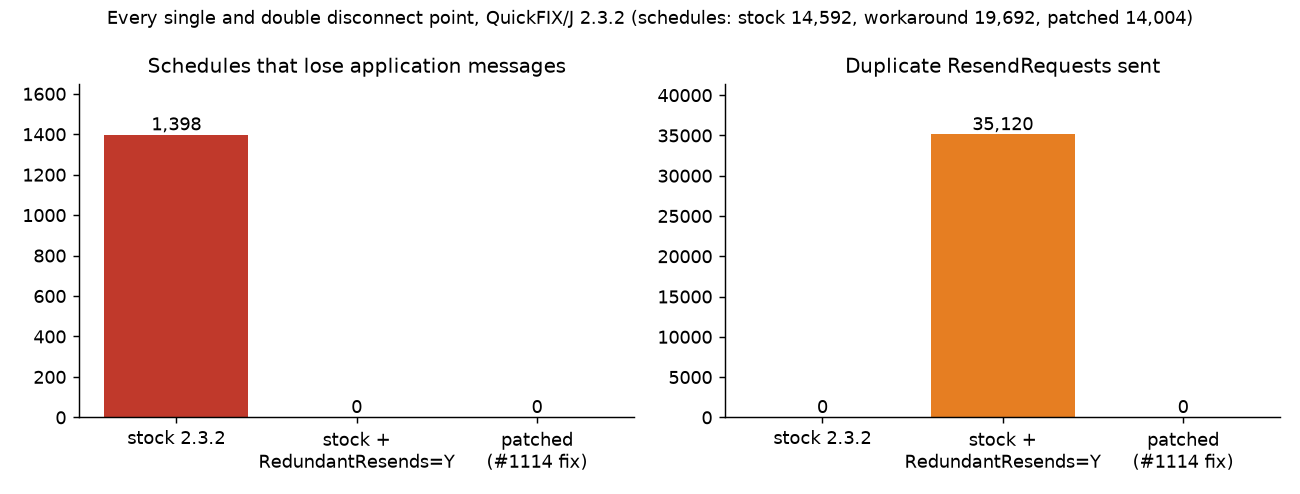
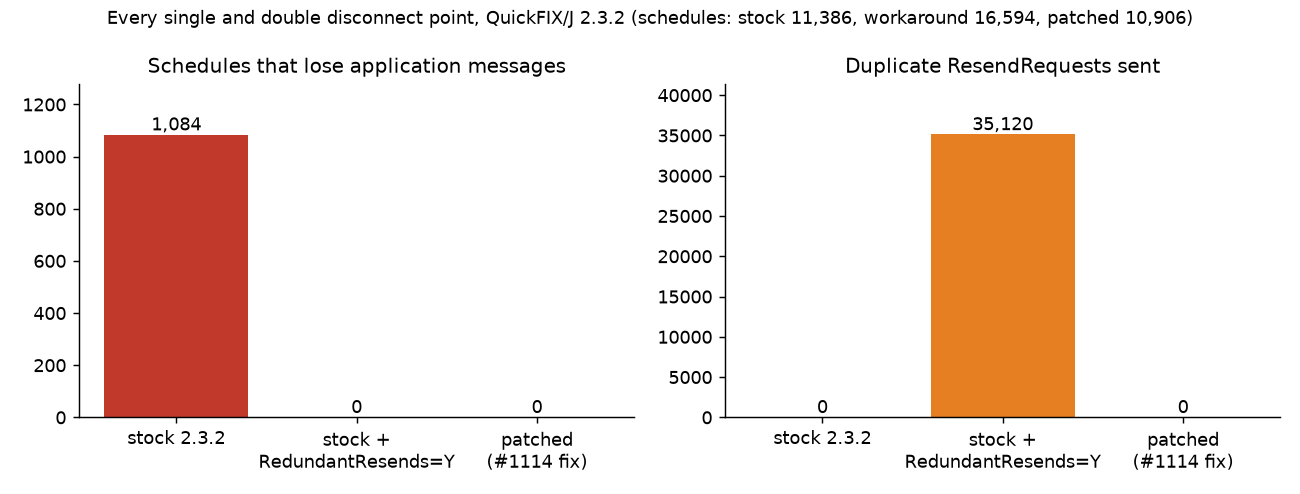
Align README results with the committed 4-message sweep and regenerate figure

diff --git a/README.md b/README.md
@@ -4,8 +4,8 @@ Finds every disconnect point at which a QuickFIX/J FIX session silently loses or
 
 ## Results
 
-- **Stock QuickFIX/J 2.3.2 loses orders in 1,398 of 14,592 disconnect schedules**, including the single-disconnect #1114 case (a ResendRequest cut by a connection drop).
-- **The fix loses and duplicates 0 messages across all 14,004 schedules** of the patched build, checked against a FIX gap-fill reference model.
+- **Stock QuickFIX/J 2.3.2 loses orders in 1,084 of 11,386 disconnect schedules**, including the single-disconnect #1114 case (a ResendRequest cut by a connection drop).
+- **The fix loses and duplicates 0 messages across all 10,906 schedules** of the patched build, checked against a FIX gap-fill reference model.
 - **The `SendRedundantResendRequests=Y` workaround sends 35,120 duplicate ResendRequests; the fix sends 0** in the same congested-burst runs.
 - **60 sampled schedules over real loopback TCP give the same outcome as the in-JVM runs**, including mid-frame cuts made by a FIX-aware NIO proxy.
 
@@ -60,15 +60,15 @@ It also adds `SessionResendRequestNotSentTest` (JUnit 4, the framework quickfixj
 
 ## Full results
 
-From `bash scripts/explore.sh --max-app-messages 5 --disconnects 2 --check` (memory and file stores, 1-5 orders per side plus the burst variant; see [results/summary.md](results/summary.md)):
+From `bash scripts/explore.sh --max-app-messages 4 --disconnects 2 --check` (memory and file stores, 1-4 orders per side plus the burst variant; see [results/summary.md](results/summary.md)):
 
 | Build | Schedules | Losing messages | Duplicating | Not recovered | Lost messages | ResendRequests sent | Duplicate ResendRequests |
 |---|---:|---:|---:|---:|---:|---:|---:|
-| stock 2.3.2 | 14,592 | 1,398 | 0 | 1,484 | 2,400 | 55,538 | 0 |
-| stock + SendRedundantResendRequests=Y | 19,692 | 0 | 0 | 0 | 0 | 112,218 | 35,120 |
-| patched (#1114 fix) | 14,004 | 0 | 0 | 12 | 0 | 56,242 | 0 |
+| stock 2.3.2 | 11,386 | 1,084 | 0 | 1,170 | 1,808 | 42,100 | 0 |
+| stock + SendRedundantResendRequests=Y | 16,594 | 0 | 0 | 0 | 0 | 98,554 | 35,120 |
+| patched (#1114 fix) | 10,906 | 0 | 0 | 12 | 0 | 42,578 | 0 |
 
-Schedule counts differ by build because each build sends a different number of messages, and so has a different number of disconnect points. In stock, 1,378 of the 1,398 losing schedules end with a BEFORE cut at a ResendRequest or a Logon response; `results/summary.md` breaks them down by faulted message. A Logon cut loses messages through the same path: `nextLogon` continues into `doTargetTooHigh`, and the ResendRequest goes to a session that has already disconnected. All of them recover with the fix.
+Schedule counts differ by build because each build sends a different number of messages, and so has a different number of disconnect points. In stock, 1,068 of the 1,084 losing schedules end with a BEFORE cut at a ResendRequest or a Logon response; `results/summary.md` breaks them down by faulted message. A Logon cut loses messages through the same path: `nextLogon` continues into `doTargetTooHigh`, and the ResendRequest goes to a session that has already disconnected. All of them recover with the fix.
 
 Shortest reproducers: `15:BEFORE` with 2 orders per side (single cut at the acceptor's ResendRequest) and `14:BEFORE` (cut at the acceptor's Logon response). Both lose order `I-2`.
 
@@ -99,9 +99,9 @@ mvn -B verify          # ~25 s
 
 ## Limitations and next steps
 
-- **Residual finding in the patched build (not fixed)**: 12 of 14,004 patched schedules lose no orders, but the session never resynchronises (`NOT_RECOVERED`). The minimal case is `14:BEFORE 15:AFTER`. When the acceptor's Logon response fails, `nextLogon` keeps running after the disconnect has cleared the queue. It re-enqueues the stale Logon, which is later processed on a new connection, and the session then waits forever for a gap that has already been filled. This is the same family as #1243. Per scope it is documented here and not patched; a guard in `nextLogon`/`enqueueMessage` for a session that has lost its responder would be the next fix to try.
+- **Residual finding in the patched build (not fixed)**: 12 of 10,906 patched schedules lose no orders, but the session never resynchronises (`NOT_RECOVERED`). The minimal case is `14:BEFORE 15:AFTER`. When the acceptor's Logon response fails, `nextLogon` keeps running after the disconnect has cleared the queue. It re-enqueues the stale Logon, which is later processed on a new connection, and the session then waits forever for a gap that has already been filled. This is the same family as #1243. Per scope it is documented here and not patched; a guard in `nextLogon`/`enqueueMessage` for a session that has lost its responder would be the next fix to try.
 - The fix stops the range from being recorded when the write fails *synchronously*. A write accepted by MINA and lost later in the socket buffer is not covered. That case is fixed by the next Logon's sequence check, which the AFTER cuts exercise.
-- Only FIX.4.4, one session pair, at most two disconnects per run, and up to 5 orders per side (plus a 5-order burst). Settings not swept: `ResetOnLogon`, `PersistMessages=N`, chunked resends (`ResendRequestChunkSize`), `EnableNextExpectedMsgSeqNum`.
+- Only FIX.4.4, one session pair, at most two disconnects per run, and up to 4 orders per side in the committed results (the explorer accepts more; plus a 5-order burst). Settings not swept: `ResetOnLogon`, `PersistMessages=N`, chunked resends (`ResendRequestChunkSize`), `EnableNextExpectedMsgSeqNum`.
 - File-store runs reuse one session object across reconnects. They test the store as written, but not a process restart that reloads it. Adding a "restart" fault that rebuilds the sessions from the file store is the natural next step.
 - Real-TCP confirmation runs a sample of 60 schedules plus two mid-frame cases, not the whole space. It uses the harness's own socket transport rather than QuickFIX/J's MINA `SocketInitiator`/`SocketAcceptor`.
 - #888 and #621 are out of scope and not exercised.
